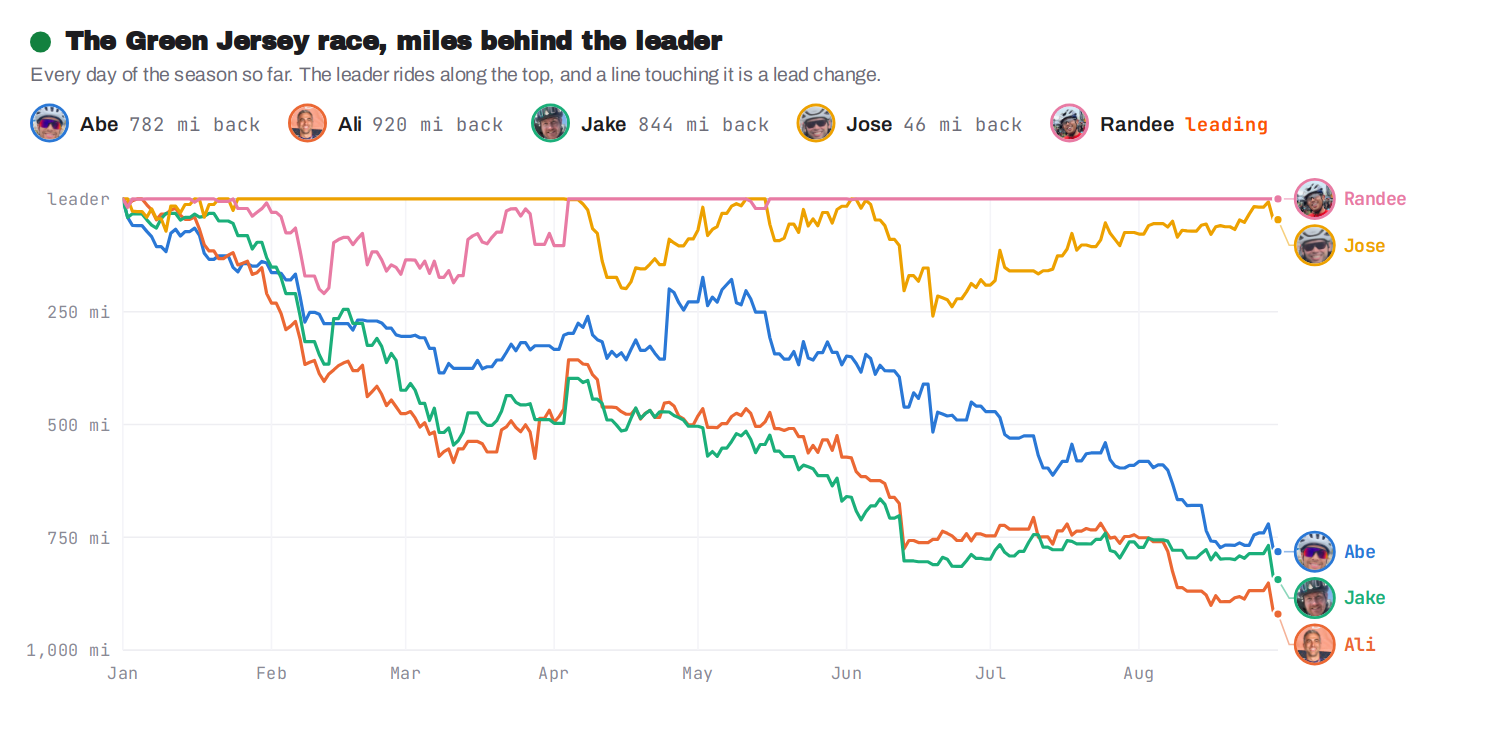
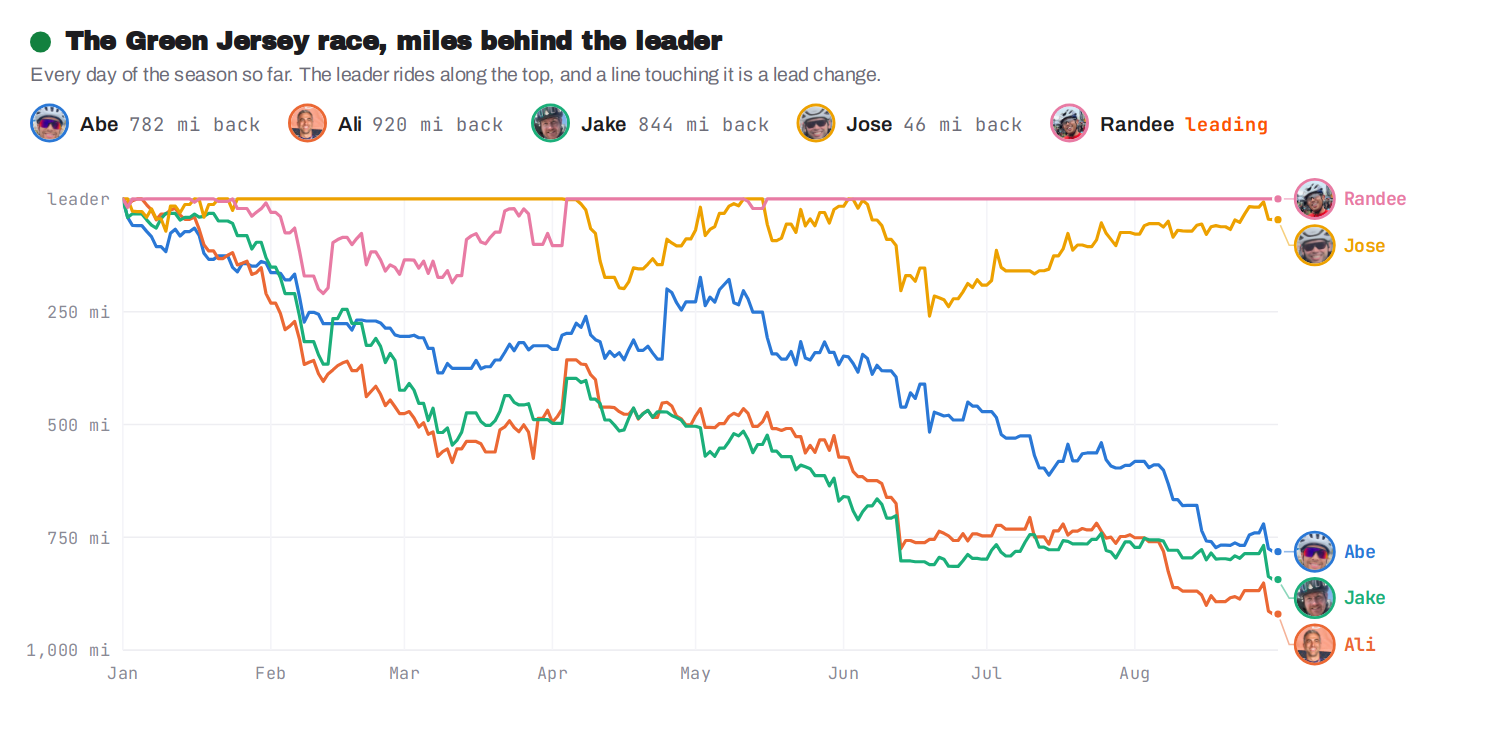
Race charts for 2026-08-31

diff --git a/data/history.js b/data/history.js
@@ -1,1 +1,1 @@
-window.HISTORY={"year":"2026","updated":"2026-08-30","riders":["Abe","Ali","Jake","Jose","Randee"],"days":["2026-01-01","2026-01-02","2026-01-03","2026-01-04","2026-01-05","2026-01-06","2026-01-07","2026-01-08","2026-01-09","2026-01-10","2026-01-11","2026-01-12","2026-01-13","2026-01-14","2026-01-15","2026-01-16","2026-01-17","2026-01-18","2026-01-19","2026-01-20","2026-01-21","2026-01-22","2026-01-23","2026-01-24","2026-01-25","2026-01-26","2026-01-27","2026-01-28","2026-01-29","2026-01-30","2026-01-31","2026-02-01","2026-02-02","2026-02-03","2026-02-04","2026-02-05","2026-02-06","2026-02-07","2026-02-08","2026-02-09","2026-02-10","2026-02-11","2026-02-12","2026-02-13","2026-02-14","2026-02-15","2026-02-16","2026-02-17","2026-02-18","2026-02-19","2026-02-20","2026-02-21","2026-02-22","2026-02-23","2026-02-24","2026-02-25","2026-02-26","2026-02-27","2026-02-28","2026-03-01","2026-03-02","2026-03-03","2026-03-04","2026-03-05","2026-03-06","2026-03-07","2026-03-08","2026-03-09","2026-03-10","2026-03-11","2026-03-12","2026-03-13","2026-03-14","2026-03-15","2026-03-16","2026-03-17","2026-03-18","2026-03-19","2026-03-20","2026-03-21","2026-03-22","2026-03-23","2026-03-24","2026-03-25","2026-03-26","2026-03-27","2026-03-28","2026-03-29","2026-03-30","2026-03-31","2026-04-01","2026-04-02","2026-04-03","2026-04-04","2026-04-05","2026-04-06","2026-04-07","2026-04-08","2026-04-09","2026-04-10","2026-04-11","2026-04-12","2026-04-13","2026-04-14","2026-04-15","2026-04-16","2026-04-17","2026-04-18","2026-04-19","2026-04-20","2026-04-21","2026-04-22","2026-04-23","2026-04-24","2026-04-25","2026-04-26","2026-04-27","2026-04-28","2026-04-29","2026-04-30","2026-05-01","2026-05-02","2026-05-03","2026-05-04","2026-05-05","2026-05-06","2026-05-07","2026-05-08","2026-05-09","2026-05-10","2026-05-11","2026-05-12","2026-05-13","2026-05-14","2026-05-15","2026-05-16","2026-05-17","2026-05-18","2026-05-19","2026-05-20","2026-05-21","2026-05-22","2026-05-23","2026-05-24","2026-05-25","2026-05-26","2026-05-27","2026-05-28","2026-05-29","2026-05-30","2026-05-31","2026-06-01","2026-06-02","2026-06-03","2026-06-04","2026-06-05","2026-06-06","2026-06-07","2026-06-08","2026-06-09","2026-06-10","2026-06-11","2026-06-12","2026-06-13","2026-06-14","2026-06-15","2026-06-16","2026-06-17","2026-06-18","2026-06-19","2026-06-20","2026-06-21","2026-06-22","2026-06-23","2026-06-24","2026-06-25","2026-06-26","2026-06-27","2026-06-28","2026-06-29","2026-06-30","2026-07-01","2026-07-02","2026-07-03","2026-07-04","2026-07-05","2026-07-06","2026-07-07","2026-07-08","2026-07-09","2026-07-10","2026-07-11","2026-07-12","2026-07-13","2026-07-14","2026-07-15","2026-07-16","2026-07-17","2026-07-18","2026-07-19","2026-07-20","2026-07-21","2026-07-22","2026-07-23","2026-07-24","2026-07-25","2026-07-26","2026-07-27","2026-07-28","2026-07-29","2026-07-30","2026-07-31","2026-08-01","2026-08-02","2026-08-03","2026-08-04","2026-08-05","2026-08-06","2026-08-07","2026-08-08","2026-08-09","2026-08-10","2026-08-11","2026-08-12","2026-08-13","2026-08-14","2026-08-15","2026-08-16","2026-08-17","2026-08-18","2026-08-19","2026-08-20","2026-08-21","2026-08-22","2026-08-23","2026-08-24","2026-08-25","2026-08-26","2026-08-27","2026-08-28","2026-08-29","2026-08-30"],"miles":{"Abe":[0.0,0.0,10.0,10.0,10.0,10.0,10.0,10.0,10.0,26.5,66.8,75.9,75.9,95.2,95.2,110.1,140.7,140.7,140.7,140.7,165.4,165.4,165.4,165.4,182.7,200.8,200.8,225.2,225.2,235.4,299.2,299.2,299.2,320.7,341.9,341.9,354.4,354.4,354.4,376.2,376.2,400.9,400.9,400.9,400.9,400.9,400.9,400.9,417.8,440.2,440.2,507.5,507.5,507.5,521.0,545.3,545.3,545.3,608.5,608.5,608.5,625.6,649.3,649.3,664.0,664.0,664.0,664.0,684.4,712.1,712.1,712.1,712.1,712.1,729.6,729.6,761.0,761.0,775.8,775.8,792.5,810.9,810.9,845.3,845.3,845.3,926.6,926.6,926.6,926.6,945.4,945.4,977.1,983.1,983.1,1005.5,1005.5,1043.6,1043.6,1043.6,1099.9,1099.9,1115.4,1115.4,1146.7,1146.7,1169.7,1190.8,1190.8,1190.8,1204.8,1204.8,1204.8,1204.8,1406.2,1406.2,1406.2,1406.2,1438.3,1438.3,1438.3,1495.7,1495.7,1514.6,1514.6,1541.9,1553.7,1569.0,1569.0,1569.0,1600.4,1600.4,1600.4,1600.4,1600.4,1600.4,1600.4,1600.4,1600.4,1600.4,1617.4,1617.4,1683.5,1683.5,1683.5,1715.1,1715.1,1738.9,1738.9,1738.9,1762.2,1781.7,1781.7,1797.4,1797.4,1836.8,1836.8,1836.8,1856.8,1856.8,1887.0,1887.0,1887.0,1920.7,1920.7,1952.1,1952.1,1983.7,1983.7,1983.7,2027.9,2027.9,2027.9,2045.0,2045.0,2045.0,2045.0,2100.9,2100.9,2100.9,2100.9,2100.9,2100.9,2100.9,2100.9,2100.9,2100.9,2100.9,2105.7,2105.7,2105.7,2105.7,2105.7,2105.7,2105.7,2120.8,2136.6,2136.6,2198.9,2198.9,2198.9,2214.5,2246.7,2246.7,2246.7,2286.8,2286.8,2286.8,2296.0,2296.0,2302.1,2302.1,2372.6,2372.6,2372.6,2372.6,2408.8,2408.8,2417.8,2433.1,2433.1,2433.1,2436.7,2467.1,2467.1,2467.1,2467.1,2467.1,2467.1,2467.1,2502.7,2502.7,2521.2,2571.3,2571.3,2571.3,2594.0,2629.1,2629.1,2649.5,2696.9,2696.9],"Ali":[0.0,28.3,64.7,69.1,69.1,69.1,69.1,69.1,81.9,109.7,118.3,122.3,122.3,122.3,122.3,134.8,154.5,159.4,159.4,159.4,159.4,159.4,167.0,197.9,197.9,201.8,206.7,206.7,210.6,221.4,231.6,231.6,231.6,231.6,231.6,239.2,249.6,260.4,260.4,265.3,269.2,269.2,272.9,289.7,298.4,307.9,313.6,317.8,328.2,328.2,339.8,339.8,351.2,362.8,362.8,373.4,386.1,386.1,437.2,437.2,442.1,442.1,451.6,461.1,473.7,478.4,478.4,489.1,495.0,503.2,533.4,533.4,549.9,549.9,549.9,563.6,571.8,571.8,571.8,621.3,627.6,640.9,640.9,647.9,662.9,662.9,677.2,766.3,766.3,784.0,784.0,796.3,813.3,924.5,924.5,924.5,924.5,936.8,955.4,955.4,955.4,991.4,991.4,1001.9,1016.2,1026.3,1026.3,1038.5,1038.5,1051.4,1062.6,1062.6,1075.1,1107.0,1154.9,1154.9,1154.9,1165.2,1165.2,1165.2,1185.4,1204.6,1225.9,1225.9,1236.2,1245.3,1245.3,1265.2,1323.8,1323.8,1339.1,1347.0,1347.0,1347.0,1357.0,1434.6,1434.6,1434.6,1442.6,1446.8,1446.8,1458.3,1473.2,1473.2,1494.0,1494.0,1521.7,1521.7,1521.7,1554.5,1557.6,1557.6,1557.6,1557.6,1566.1,1566.1,1566.1,1601.1,1601.1,1606.5,1606.5,1606.5,1606.5,1606.5,1624.9,1624.9,1632.6,1632.6,1632.6,1746.2,1746.2,1767.8,1767.8,1777.7,1777.7,1777.7,1793.2,1793.2,1817.6,1817.6,1825.4,1825.4,1825.4,1861.6,1899.1,1899.1,1899.1,1899.1,1899.1,1899.1,1925.0,1925.0,1952.8,1952.8,1952.8,1982.1,1982.1,1997.5,1997.5,2043.1,2043.1,2048.8,2076.1,2076.1,2091.2,2091.2,2113.4,2129.0,2129.0,2144.4,2144.4,2148.3,2203.6,2203.6,2203.6,2208.3,2238.2,2238.2,2238.2,2238.2,2238.2,2238.2,2247.4,2277.3,2277.3,2277.3,2324.4,2324.4,2347.4,2347.4,2377.6,2377.6,2405.2,2452.3,2452.3,2471.0,2471.0,2501.6,2501.6,2518.1,2558.4,2558.4],"Jake":[0.0,0.0,35.6,35.6,35.6,35.6,35.6,51.1,72.1,110.9,110.9,110.9,110.9,126.4,126.4,141.4,181.0,222.5,242.7,242.7,242.7,242.7,242.7,262.9,262.9,262.9,262.9,262.9,278.0,278.0,311.3,311.3,311.3,311.3,311.3,311.3,311.3,311.3,311.3,311.3,311.3,311.3,311.3,311.3,412.2,412.2,432.6,432.6,432.6,432.6,432.6,453.3,453.3,468.9,468.9,468.9,489.0,489.0,489.0,489.0,504.0,504.0,504.0,504.0,504.0,531.5,531.5,531.5,541.9,541.9,552.2,570.4,612.9,612.9,612.9,612.9,631.1,631.1,641.4,662.4,696.6,696.6,696.6,706.9,706.9,725.9,763.4,763.4,763.4,763.4,781.7,781.7,781.7,883.4,883.4,883.4,883.4,901.5,901.5,911.6,963.3,963.3,963.3,963.3,973.4,991.5,1017.0,1040.0,1040.0,1050.2,1062.6,1062.6,1087.7,1087.7,1133.5,1133.5,1151.6,1162.3,1162.3,1162.3,1162.3,1162.3,1162.3,1172.6,1172.6,1190.7,1190.7,1209.6,1278.7,1278.7,1289.0,1289.0,1289.0,1307.1,1307.1,1384.6,1384.6,1384.6,1384.6,1384.6,1384.6,1384.6,1409.7,1442.7,1442.7,1442.7,1442.7,1442.7,1442.7,1460.1,1460.1,1470.3,1470.3,1470.3,1470.3,1488.4,1510.1,1545.1,1560.6,1560.6,1560.6,1560.6,1579.6,1579.6,1579.6,1579.6,1589.9,1589.9,1589.9,1690.2,1690.2,1710.3,1710.3,1710.3,1720.5,1720.5,1732.9,1763.2,1763.2,1763.2,1773.4,1773.4,1793.5,1818.9,1839.4,1839.4,1839.4,1849.6,1849.6,1869.9,1887.0,1930.3,1930.3,1930.3,1940.5,1940.5,1940.5,1960.6,1983.8,2014.8,2014.8,2014.8,2045.0,2055.3,2055.3,2086.0,2086.0,2096.3,2096.3,2114.3,2132.1,2132.1,2182.2,2182.2,2202.3,2212.5,2242.3,2242.3,2260.3,2285.4,2320.6,2320.6,2320.6,2350.5,2350.5,2360.6,2425.1,2425.1,2442.1,2442.1,2472.5,2472.5,2489.7,2542.6,2542.6,2552.9,2552.9,2583.6,2583.6,2601.6,2635.2,2635.2],"Jose":[0.0,41.2,41.2,41.2,41.2,41.2,71.7,71.7,71.7,71.7,127.2,127.2,127.2,155.4,155.4,175.1,220.5,220.5,262.5,262.5,291.7,291.7,291.7,291.7,344.5,344.5,344.5,374.0,374.0,374.0,441.5,462.6,462.6,485.6,521.2,521.2,521.2,571.0,627.5,627.5,627.5,656.7,677.5,677.5,677.5,677.5,677.5,677.5,708.6,708.6,708.6,778.1,778.1,778.1,795.7,831.7,831.7,846.7,913.2,913.2,913.2,927.6,957.1,957.1,995.2,995.2,1049.3,1049.3,1049.3,1087.5,1087.5,1087.5,1087.5,1087.5,1087.5,1106.2,1132.9,1132.9,1132.9,1132.9,1132.9,1132.9,1147.5,1163.7,1163.7,1179.9,1252.3,1252.3,1252.3,1252.3,1279.2,1279.2,1279.2,1279.2,1279.2,1279.2,1279.2,1279.2,1279.2,1279.2,1279.2,1279.2,1279.2,1290.6,1290.6,1304.7,1319.6,1350.8,1371.6,1371.6,1387.2,1414.0,1414.0,1414.0,1516.3,1516.3,1532.4,1548.6,1577.7,1577.7,1597.5,1651.2,1651.2,1664.5,1681.9,1711.3,1711.3,1731.3,1788.5,1788.5,1803.7,1822.4,1851.4,1851.4,1851.4,1851.4,1851.4,1851.4,1868.7,1899.5,1899.5,1910.9,1976.3,1976.3,1996.2,1996.2,2025.5,2025.5,2025.5,2055.6,2113.4,2113.4,2131.7,2161.1,2161.1,2178.6,2178.6,2178.6,2178.6,2178.6,2178.6,2178.6,2178.6,2178.6,2211.7,2211.7,2211.7,2240.9,2240.9,2240.9,2285.5,2285.5,2285.5,2285.5,2313.5,2313.5,2328.9,2363.7,2363.7,2381.1,2381.1,2381.1,2391.4,2471.2,2471.2,2471.2,2471.2,2471.2,2471.2,2471.2,2471.2,2508.3,2542.9,2542.9,2562.5,2591.6,2591.6,2607.1,2665.9,2665.9,2677.3,2677.3,2704.1,2704.1,2719.2,2774.2,2789.1,2789.1,2789.1,2818.1,2818.1,2818.1,2876.7,2876.7,2895.3,2913.3,2943.4,2943.4,2956.6,3014.6,3014.6,3029.9,3045.7,3074.9,3074.9,3087.9,3146.5,3146.5,3165.0,3181.0,3208.5,3208.5,3221.6,3286.9,3286.9,3305.4,3322.2,3351.5,3351.5,3362.7,3426.8,3432.5],"Randee":[0.0,22.5,68.5,68.5,68.5,82.1,93.7,115.7,115.7,143.2,143.2,143.2,158.1,167.7,167.7,167.7,221.6,261.1,274.8,274.8,286.2,286.2,286.2,317.2,323.3,323.3,323.3,335.7,344.4,352.3,432.7,432.7,432.7,446.1,446.1,446.1,456.6,456.6,456.6,456.6,456.6,456.6,468.1,480.2,580.8,587.4,592.2,592.2,607.1,620.6,632.0,632.0,660.7,660.7,660.7,671.8,685.7,695.1,746.2,778.0,778.0,791.7,803.7,819.3,829.9,857.2,875.6,875.6,890.5,901.6,917.3,917.3,997.5,1005.6,1010.5,1010.5,1033.1,1047.7,1059.1,1059.1,1106.1,1111.0,1125.9,1125.9,1141.7,1146.7,1151.5,1151.5,1151.5,1175.6,1175.6,1175.6,1175.6,1281.1,1281.1,1281.1,1290.4,1304.0,1345.0,1355.7,1416.7,1453.2,1453.2,1464.7,1487.9,1503.5,1503.5,1503.5,1526.5,1526.5,1531.5,1546.5,1559.6,1559.6,1605.7,1613.7,1636.4,1652.7,1666.2,1666.2,1666.2,1669.5,1732.4,1732.4,1743.3,1743.3,1743.3,1747.3,1799.0,1803.9,1803.9,1816.6,1830.2,1830.2,1830.2,1907.9,1943.9,1943.9,1955.7,1955.7,1955.7,1985.1,1999.8,2036.4,2040.6,2055.8,2055.8,2055.8,2079.0,2079.0,2129.8,2129.8,2129.8,2162.3,2181.6,2181.6,2190.6,2225.5,2225.5,2237.7,2268.2,2268.2,2281.8,2382.0,2382.0,2382.0,2394.2,2394.2,2394.2,2500.7,2500.7,2504.5,2509.0,2524.4,2534.9,2534.9,2534.9,2551.3,2560.1,2560.1,2572.1,2572.1,2572.1,2585.3,2622.8,2630.9,2630.9,2630.9,2630.9,2630.9,2630.9,2674.5,2702.2,2702.2,2718.0,2718.0,2718.0,2718.0,2742.5,2779.4,2779.4,2779.4,2809.9,2809.9,2809.9,2827.3,2865.2,2878.8,2892.5,2892.5,2892.5,2892.5,2954.6,2954.6,2954.6,2968.3,2998.1,2998.1,3018.9,3064.2,3099.4,3099.4,3116.5,3146.3,3146.3,3146.3,3202.3,3225.1,3226.7,3240.3,3270.1,3270.1,3289.2,3333.8,3339.1,3339.1,3339.1,3369.6,3369.6,3369.6,3472.0,3478.7]},"feet":{"Abe":[0,0,295,295,295,295,295,295,295,958,2828,3054,3054,3917,3917,4386,5164,5164,5164,5164,6309,6309,6309,6309,6837,7339,7339,8878,8878,9144,11522,11522,11522,11696,13740,13740,15115,15115,15115,16217,16217,16909,16909,16909,16909,16909,16909,16909,17441,17625,17625,21732,21732,21732,22205,23704,23704,23704,27011,27011,27011,27651,29173,29173,29557,29557,29557,29557,30915,32244,32244,32244,32244,32244,33301,33301,34961,34961,35554,35554,36420,37250,37250,39140,39140,39140,43484,43484,43484,43484,44084,44084,45347,46105,46105,46285,46285,48182,48182,48182,50160,50160,50754,50754,52388,52388,53405,54330,54330,54330,54743,54743,54743,54743,62190,62190,62190,62190,63775,63775,63775,67292,67292,67722,67722,68339,69051,69651,69651,69651,69910,69910,69910,69910,69910,69910,69910,69910,69910,69910,70983,70983,78857,78857,78857,80780,80780,81711,81711,81711,82899,83499,83499,83818,83818,84680,84680,84680,85448,85448,86970,86970,86970,89018,89018,90330,90330,91888,91888,91888,94772,94772,94772,94913,94913,94913,94913,99392,99392,99392,99392,99392,99392,99392,99392,99392,99392,99392,99740,99740,99740,99740,99740,99740,99740,100304,101203,101203,104556,104556,104556,105406,106974,106974,106974,108670,108670,108670,109152,109152,109343,109343,113749,113749,113749,113749,115376,115376,115655,116154,116154,116154,116409,117935,117935,117935,117935,117935,117935,117935,119536,119536,120054,122338,122338,122338,123644,125235,125235,125727,129303,129303],"Ali":[0,2966,4921,6047,6047,6047,6047,6047,7536,10128,10479,11575,11575,11575,11575,13045,14272,15285,15285,15285,15285,15285,17083,19337,19337,20433,21257,21257,22352,23638,24091,24091,24091,24091,24091,24436,25738,27080,27080,28097,29193,29193,30289,31175,32310,32756,33917,35013,35909,35909,36975,36975,38683,39765,39765,40208,40924,40924,41721,41721,42741,42741,43515,44286,45737,46239,46239,47531,47885,48250,51179,51179,53424,53424,53424,53581,54057,54057,54057,58926,59280,59992,59992,60500,60956,60956,61550,63952,63952,64792,64792,65124,65547,69343,69343,69343,69343,70245,70763,70763,70763,72922,72922,73398,73962,74225,74225,75967,75967,76272,77342,77342,78450,79281,80645,80645,80645,81534,81534,81534,82332,83096,85777,85777,86685,87095,87095,87886,93283,93283,93641,94336,94336,94336,94947,100465,100465,100465,101174,101439,101439,101767,104385,104385,107000,107000,108470,108470,108470,109635,109730,109730,109730,109730,110130,110130,110130,111557,111557,112073,112073,112073,112073,112073,114815,114815,115567,115567,115567,118329,118329,121036,121036,122417,122417,122417,122745,122745,124399,124399,125186,125186,125186,128185,131698,131698,131698,131698,131698,131698,133857,133857,137919,137919,137919,139376,139376,139717,139717,144071,144071,144481,145908,145908,146357,146357,149094,149408,149408,149730,149730,149986,154504,154504,154504,154510,155957,155957,155957,155957,155957,155957,156365,157835,157835,157835,159958,159958,160903,160903,162336,162336,165033,167123,167123,167523,167523,168967,168967,169324,171742,171742],"Jake":[0,0,1926,1926,1926,1926,1926,2343,3058,5961,5961,5961,5961,6407,6407,6804,8150,10755,11440,11440,11440,11440,11440,12051,12051,12051,12051,12051,12431,12431,13711,13711,13711,13711,13711,13711,13711,13711,13711,13711,13711,13711,13711,13711,15820,15820,16493,16493,16493,16493,16493,17175,17175,17618,17618,17618,18225,18225,18225,18225,18625,18625,18625,18625,18625,20072,20072,20072,20705,20705,21299,21969,22969,22969,22969,22969,23615,23615,24213,25338,28271,28271,28271,28875,28875,29514,31184,31184,31184,31184,31850,31850,31850,35361,35361,35361,35361,36030,36030,36663,38402,38402,38402,38402,39016,39685,40728,42267,42267,42887,43668,43668,44652,44652,46444,46444,47129,47766,47766,47766,47766,47766,47766,48392,48392,49137,49137,49852,53825,53825,54432,54432,54432,55148,55148,60646,60646,60646,60646,60646,60646,60646,61686,63169,63169,63169,63169,63169,63169,63799,63799,64465,64465,64465,64465,65164,65984,67359,67516,67516,67516,67516,68219,68219,68219,68219,68848,68848,68848,71033,71033,71798,71798,71798,72415,72415,72930,74446,74446,74446,75075,75075,75817,76850,77982,77982,77982,78589,78589,79386,80085,82448,82448,82448,83058,83058,83058,83973,85486,86526,86526,86526,88028,88645,88645,90030,90030,90663,90663,91342,92096,92096,93520,93520,94272,94921,96385,96385,97047,98117,99488,99488,99488,100942,100942,101552,104741,104741,105433,105433,106900,106900,107539,110102,110102,110689,110689,112096,112096,112730,114964,114964],"Jose":[0,1854,1854,1854,1854,1854,3576,3576,3576,3576,7238,7238,7238,8812,8812,9587,12100,12100,14511,14511,16053,16053,16053,16053,19652,19652,19652,21184,21184,21184,23678,24419,24419,25696,27388,27388,27388,29721,32493,32493,32493,34108,34590,34590,34590,34590,34590,34590,36424,36424,36424,41102,41102,41102,41837,43615,43615,43911,47369,47369,47369,48018,49649,49649,51503,51503,54003,54003,54003,55709,55709,55709,55709,55709,55709,56109,57467,57467,57467,57467,57467,57467,57890,58675,58675,59203,63241,63241,63241,63241,64662,64662,64662,64662,64662,64662,64662,64662,64662,64662,64662,64662,64662,64980,64980,65420,66043,67395,68346,68346,68832,70249,70249,70249,74039,74039,74557,75364,76860,76860,77674,81076,81076,81470,82300,83796,83796,84580,89885,89885,90207,91184,92690,92690,92690,92690,92690,92690,93596,95056,95056,95377,103281,103281,103743,103743,105240,105240,105240,106870,109934,109934,110919,112392,112392,113094,113094,113094,113094,113094,113094,113094,113094,113094,114265,114265,114265,115745,115745,115745,118553,118553,118553,118553,119964,119964,120305,122136,122136,122822,122822,122822,123110,127815,127815,127815,127815,127815,127815,127815,127815,129800,130906,130906,131670,133110,133110,133448,136637,136637,136939,136939,138327,138327,138786,141808,142172,142172,142172,143609,143609,143609,146670,146670,147064,148192,149646,149646,149993,154032,154032,154373,155394,156847,156847,157195,160561,160561,161020,162149,163681,163681,164068,166962,166962,167375,168501,169915,169915,170203,174590,174738],"Randee":[0,853,3097,3097,3097,3504,3776,4685,4685,7293,7293,7293,7753,8061,8061,8061,11414,13934,14344,14344,14626,14626,14626,16949,16965,16965,16965,17303,17503,18638,20620,20620,20620,21024,21024,21024,21273,21273,21273,21273,21273,21273,21627,22198,24337,24823,25240,25240,25735,26138,26558,26558,28058,28058,28058,28465,28793,29088,29934,31194,31194,31604,32041,32480,33645,35095,35738,35738,36181,36601,37051,37051,39042,39396,39623,39623,40492,40823,41306,41306,44636,45331,45774,45774,46188,46801,47146,47146,47146,50003,50003,50003,50003,53720,53720,53720,55814,56214,57415,57917,60128,63446,63446,64161,64942,65365,65365,65365,68442,68442,68616,68984,69587,69587,71300,71995,72543,73757,74066,74066,74066,74184,77914,77914,78734,78734,78734,79151,85785,86224,86224,87419,87839,87839,87839,93491,94899,94899,96008,96008,96008,100713,103573,105253,105519,106165,106165,106165,106966,106966,109144,109144,109144,110837,111457,111457,111741,113175,113175,115927,117456,117456,117893,120127,120127,120127,121279,121279,121279,124074,124074,125239,125996,128044,128273,128273,128273,128844,130740,130740,131876,131876,131876,132171,135753,138860,138860,138860,138860,138860,138860,141354,145402,145402,145845,145845,145845,145845,147023,151183,151183,151183,152692,152692,152692,154445,155927,156361,156787,156787,156787,156787,162000,162000,162000,162440,163952,163952,164763,166495,167909,167909,168667,170176,170176,170176,172919,174766,174852,175262,176758,176758,177181,179271,179543,179543,179543,181046,181046,181046,183251,183628]}};
+window.HISTORY={"year":"2026","updated":"2026-08-31","riders":["Abe","Ali","Jake","Jose","Randee"],"days":["2026-01-01","2026-01-02","2026-01-03","2026-01-04","2026-01-05","2026-01-06","2026-01-07","2026-01-08","2026-01-09","2026-01-10","2026-01-11","2026-01-12","2026-01-13","2026-01-14","2026-01-15","2026-01-16","2026-01-17","2026-01-18","2026-01-19","2026-01-20","2026-01-21","2026-01-22","2026-01-23","2026-01-24","2026-01-25","2026-01-26","2026-01-27","2026-01-28","2026-01-29","2026-01-30","2026-01-31","2026-02-01","2026-02-02","2026-02-03","2026-02-04","2026-02-05","2026-02-06","2026-02-07","2026-02-08","2026-02-09","2026-02-10","2026-02-11","2026-02-12","2026-02-13","2026-02-14","2026-02-15","2026-02-16","2026-02-17","2026-02-18","2026-02-19","2026-02-20","2026-02-21","2026-02-22","2026-02-23","2026-02-24","2026-02-25","2026-02-26","2026-02-27","2026-02-28","2026-03-01","2026-03-02","2026-03-03","2026-03-04","2026-03-05","2026-03-06","2026-03-07","2026-03-08","2026-03-09","2026-03-10","2026-03-11","2026-03-12","2026-03-13","2026-03-14","2026-03-15","2026-03-16","2026-03-17","2026-03-18","2026-03-19","2026-03-20","2026-03-21","2026-03-22","2026-03-23","2026-03-24","2026-03-25","2026-03-26","2026-03-27","2026-03-28","2026-03-29","2026-03-30","2026-03-31","2026-04-01","2026-04-02","2026-04-03","2026-04-04","2026-04-05","2026-04-06","2026-04-07","2026-04-08","2026-04-09","2026-04-10","2026-04-11","2026-04-12","2026-04-13","2026-04-14","2026-04-15","2026-04-16","2026-04-17","2026-04-18","2026-04-19","2026-04-20","2026-04-21","2026-04-22","2026-04-23","2026-04-24","2026-04-25","2026-04-26","2026-04-27","2026-04-28","2026-04-29","2026-04-30","2026-05-01","2026-05-02","2026-05-03","2026-05-04","2026-05-05","2026-05-06","2026-05-07","2026-05-08","2026-05-09","2026-05-10","2026-05-11","2026-05-12","2026-05-13","2026-05-14","2026-05-15","2026-05-16","2026-05-17","2026-05-18","2026-05-19","2026-05-20","2026-05-21","2026-05-22","2026-05-23","2026-05-24","2026-05-25","2026-05-26","2026-05-27","2026-05-28","2026-05-29","2026-05-30","2026-05-31","2026-06-01","2026-06-02","2026-06-03","2026-06-04","2026-06-05","2026-06-06","2026-06-07","2026-06-08","2026-06-09","2026-06-10","2026-06-11","2026-06-12","2026-06-13","2026-06-14","2026-06-15","2026-06-16","2026-06-17","2026-06-18","2026-06-19","2026-06-20","2026-06-21","2026-06-22","2026-06-23","2026-06-24","2026-06-25","2026-06-26","2026-06-27","2026-06-28","2026-06-29","2026-06-30","2026-07-01","2026-07-02","2026-07-03","2026-07-04","2026-07-05","2026-07-06","2026-07-07","2026-07-08","2026-07-09","2026-07-10","2026-07-11","2026-07-12","2026-07-13","2026-07-14","2026-07-15","2026-07-16","2026-07-17","2026-07-18","2026-07-19","2026-07-20","2026-07-21","2026-07-22","2026-07-23","2026-07-24","2026-07-25","2026-07-26","2026-07-27","2026-07-28","2026-07-29","2026-07-30","2026-07-31","2026-08-01","2026-08-02","2026-08-03","2026-08-04","2026-08-05","2026-08-06","2026-08-07","2026-08-08","2026-08-09","2026-08-10","2026-08-11","2026-08-12","2026-08-13","2026-08-14","2026-08-15","2026-08-16","2026-08-17","2026-08-18","2026-08-19","2026-08-20","2026-08-21","2026-08-22","2026-08-23","2026-08-24","2026-08-25","2026-08-26","2026-08-27","2026-08-28","2026-08-29","2026-08-30","2026-08-31"],"miles":{"Abe":[0.0,0.0,10.0,10.0,10.0,10.0,10.0,10.0,10.0,26.5,66.8,75.9,75.9,95.2,95.2,110.1,140.7,140.7,140.7,140.7,165.4,165.4,165.4,165.4,182.7,200.8,200.8,225.2,225.2,235.4,299.2,299.2,299.2,320.7,341.9,341.9,354.4,354.4,354.4,376.2,376.2,400.9,400.9,400.9,400.9,400.9,400.9,400.9,417.8,440.2,440.2,507.5,507.5,507.5,521.0,545.3,545.3,545.3,608.5,608.5,608.5,625.6,649.3,649.3,664.0,664.0,664.0,664.0,684.4,712.1,712.1,712.1,712.1,712.1,729.6,729.6,761.0,761.0,775.8,775.8,792.5,810.9,810.9,845.3,845.3,845.3,926.6,926.6,926.6,926.6,945.4,945.4,977.1,983.1,983.1,1005.5,1005.5,1043.6,1043.6,1043.6,1099.9,1099.9,1115.4,1115.4,1146.7,1146.7,1169.7,1190.8,1190.8,1190.8,1204.8,1204.8,1204.8,1204.8,1406.2,1406.2,1406.2,1406.2,1438.3,1438.3,1438.3,1495.7,1495.7,1514.6,1514.6,1541.9,1553.7,1569.0,1569.0,1569.0,1600.4,1600.4,1600.4,1600.4,1600.4,1600.4,1600.4,1600.4,1600.4,1600.4,1617.4,1617.4,1683.5,1683.5,1683.5,1715.1,1715.1,1738.9,1738.9,1738.9,1762.2,1781.7,1781.7,1797.4,1797.4,1836.8,1836.8,1836.8,1856.8,1856.8,1887.0,1887.0,1887.0,1920.7,1920.7,1952.1,1952.1,1983.7,1983.7,1983.7,2027.9,2027.9,2027.9,2045.0,2045.0,2045.0,2045.0,2100.9,2100.9,2100.9,2100.9,2100.9,2100.9,2100.9,2100.9,2100.9,2100.9,2100.9,2105.7,2105.7,2105.7,2105.7,2105.7,2105.7,2105.7,2120.8,2136.6,2136.6,2198.9,2198.9,2198.9,2214.5,2246.7,2246.7,2246.7,2286.8,2286.8,2286.8,2296.0,2296.0,2302.1,2302.1,2372.6,2372.6,2372.6,2372.6,2408.8,2408.8,2417.8,2433.1,2433.1,2433.1,2436.7,2467.1,2467.1,2467.1,2467.1,2467.1,2467.1,2467.1,2502.7,2502.7,2521.2,2571.3,2571.3,2571.3,2594.0,2629.1,2629.1,2649.5,2696.9,2696.9,2696.9],"Ali":[0.0,28.3,64.7,69.1,69.1,69.1,69.1,69.1,81.9,109.7,118.3,122.3,122.3,122.3,122.3,134.8,154.5,159.4,159.4,159.4,159.4,159.4,167.0,197.9,197.9,201.8,206.7,206.7,210.6,221.4,231.6,231.6,231.6,231.6,231.6,239.2,249.6,260.4,260.4,265.3,269.2,269.2,272.9,289.7,298.4,307.9,313.6,317.8,328.2,328.2,339.8,339.8,351.2,362.8,362.8,373.4,386.1,386.1,437.2,437.2,442.1,442.1,451.6,461.1,473.7,478.4,478.4,489.1,495.0,503.2,533.4,533.4,549.9,549.9,549.9,563.6,571.8,571.8,571.8,621.3,627.6,640.9,640.9,647.9,662.9,662.9,677.2,766.3,766.3,784.0,784.0,796.3,813.3,924.5,924.5,924.5,924.5,936.8,955.4,955.4,955.4,991.4,991.4,1001.9,1016.2,1026.3,1026.3,1038.5,1038.5,1051.4,1062.6,1062.6,1075.1,1107.0,1154.9,1154.9,1154.9,1165.2,1165.2,1165.2,1185.4,1204.6,1225.9,1225.9,1236.2,1245.3,1245.3,1265.2,1323.8,1323.8,1339.1,1347.0,1347.0,1347.0,1357.0,1434.6,1434.6,1434.6,1442.6,1446.8,1446.8,1458.3,1473.2,1473.2,1494.0,1494.0,1521.7,1521.7,1521.7,1554.5,1557.6,1557.6,1557.6,1557.6,1566.1,1566.1,1566.1,1601.1,1601.1,1606.5,1606.5,1606.5,1606.5,1606.5,1624.9,1624.9,1632.6,1632.6,1632.6,1746.2,1746.2,1767.8,1767.8,1777.7,1777.7,1777.7,1793.2,1793.2,1817.6,1817.6,1825.4,1825.4,1825.4,1861.6,1899.1,1899.1,1899.1,1899.1,1899.1,1899.1,1925.0,1925.0,1952.8,1952.8,1952.8,1982.1,1982.1,1997.5,1997.5,2043.1,2043.1,2048.8,2076.1,2076.1,2091.2,2091.2,2113.4,2129.0,2129.0,2144.4,2144.4,2148.3,2203.6,2203.6,2203.6,2208.3,2238.2,2238.2,2238.2,2238.2,2238.2,2238.2,2247.4,2277.3,2277.3,2277.3,2324.4,2324.4,2347.4,2347.4,2377.6,2377.6,2405.2,2452.3,2452.3,2471.0,2471.0,2501.6,2501.6,2518.1,2558.4,2558.4,2558.4],"Jake":[0.0,0.0,35.6,35.6,35.6,35.6,35.6,51.1,72.1,110.9,110.9,110.9,110.9,126.4,126.4,141.4,181.0,222.5,242.7,242.7,242.7,242.7,242.7,262.9,262.9,262.9,262.9,262.9,278.0,278.0,311.3,311.3,311.3,311.3,311.3,311.3,311.3,311.3,311.3,311.3,311.3,311.3,311.3,311.3,412.2,412.2,432.6,432.6,432.6,432.6,432.6,453.3,453.3,468.9,468.9,468.9,489.0,489.0,489.0,489.0,504.0,504.0,504.0,504.0,504.0,531.5,531.5,531.5,541.9,541.9,552.2,570.4,612.9,612.9,612.9,612.9,631.1,631.1,641.4,662.4,696.6,696.6,696.6,706.9,706.9,725.9,763.4,763.4,763.4,763.4,781.7,781.7,781.7,883.4,883.4,883.4,883.4,901.5,901.5,911.6,963.3,963.3,963.3,963.3,973.4,991.5,1017.0,1040.0,1040.0,1050.2,1062.6,1062.6,1087.7,1087.7,1133.5,1133.5,1151.6,1162.3,1162.3,1162.3,1162.3,1162.3,1162.3,1172.6,1172.6,1190.7,1190.7,1209.6,1278.7,1278.7,1289.0,1289.0,1289.0,1307.1,1307.1,1384.6,1384.6,1384.6,1384.6,1384.6,1384.6,1384.6,1409.7,1442.7,1442.7,1442.7,1442.7,1442.7,1442.7,1460.1,1460.1,1470.3,1470.3,1470.3,1470.3,1488.4,1510.1,1545.1,1560.6,1560.6,1560.6,1560.6,1579.6,1579.6,1579.6,1579.6,1589.9,1589.9,1589.9,1690.2,1690.2,1710.3,1710.3,1710.3,1720.5,1720.5,1732.9,1763.2,1763.2,1763.2,1773.4,1773.4,1793.5,1818.9,1839.4,1839.4,1839.4,1849.6,1849.6,1869.9,1887.0,1930.3,1930.3,1930.3,1940.5,1940.5,1940.5,1960.6,1983.8,2014.8,2014.8,2014.8,2045.0,2055.3,2055.3,2086.0,2086.0,2096.3,2096.3,2114.3,2132.1,2132.1,2182.2,2182.2,2202.3,2212.5,2242.3,2242.3,2260.3,2285.4,2320.6,2320.6,2320.6,2350.5,2350.5,2360.6,2425.1,2425.1,2442.1,2442.1,2472.5,2472.5,2489.7,2542.6,2542.6,2552.9,2552.9,2583.6,2583.6,2601.6,2635.2,2635.2,2635.2],"Jose":[0.0,41.2,41.2,41.2,41.2,41.2,71.7,71.7,71.7,71.7,127.2,127.2,127.2,155.4,155.4,175.1,220.5,220.5,262.5,262.5,291.7,291.7,291.7,291.7,344.5,344.5,344.5,374.0,374.0,374.0,441.5,462.6,462.6,485.6,521.2,521.2,521.2,571.0,627.5,627.5,627.5,656.7,677.5,677.5,677.5,677.5,677.5,677.5,708.6,708.6,708.6,778.1,778.1,778.1,795.7,831.7,831.7,846.7,913.2,913.2,913.2,927.6,957.1,957.1,995.2,995.2,1049.3,1049.3,1049.3,1087.5,1087.5,1087.5,1087.5,1087.5,1087.5,1106.2,1132.9,1132.9,1132.9,1132.9,1132.9,1132.9,1147.5,1163.7,1163.7,1179.9,1252.3,1252.3,1252.3,1252.3,1279.2,1279.2,1279.2,1279.2,1279.2,1279.2,1279.2,1279.2,1279.2,1279.2,1279.2,1279.2,1279.2,1290.6,1290.6,1304.7,1319.6,1350.8,1371.6,1371.6,1387.2,1414.0,1414.0,1414.0,1516.3,1516.3,1532.4,1548.6,1577.7,1577.7,1597.5,1651.2,1651.2,1664.5,1681.9,1711.3,1711.3,1731.3,1788.5,1788.5,1803.7,1822.4,1851.4,1851.4,1851.4,1851.4,1851.4,1851.4,1868.7,1899.5,1899.5,1910.9,1976.3,1976.3,1996.2,1996.2,2025.5,2025.5,2025.5,2055.6,2113.4,2113.4,2131.7,2161.1,2161.1,2178.6,2178.6,2178.6,2178.6,2178.6,2178.6,2178.6,2178.6,2178.6,2211.7,2211.7,2211.7,2240.9,2240.9,2240.9,2285.5,2285.5,2285.5,2285.5,2313.5,2313.5,2328.9,2363.7,2363.7,2381.1,2381.1,2381.1,2391.4,2471.2,2471.2,2471.2,2471.2,2471.2,2471.2,2471.2,2471.2,2508.3,2542.9,2542.9,2562.5,2591.6,2591.6,2607.1,2665.9,2665.9,2677.3,2677.3,2704.1,2704.1,2719.2,2774.2,2789.1,2789.1,2789.1,2818.1,2818.1,2818.1,2876.7,2876.7,2895.3,2913.3,2943.4,2943.4,2956.6,3014.6,3014.6,3029.9,3045.7,3074.9,3074.9,3087.9,3146.5,3146.5,3165.0,3181.0,3208.5,3208.5,3221.6,3286.9,3286.9,3305.4,3322.2,3351.5,3351.5,3362.7,3426.8,3432.5,3432.5],"Randee":[0.0,22.5,68.5,68.5,68.5,82.1,93.7,115.7,115.7,143.2,143.2,143.2,158.1,167.7,167.7,167.7,221.6,261.1,274.8,274.8,286.2,286.2,286.2,317.2,323.3,323.3,323.3,335.7,344.4,352.3,432.7,432.7,432.7,446.1,446.1,446.1,456.6,456.6,456.6,456.6,456.6,456.6,468.1,480.2,580.8,587.4,592.2,592.2,607.1,620.6,632.0,632.0,660.7,660.7,660.7,671.8,685.7,695.1,746.2,778.0,778.0,791.7,803.7,819.3,829.9,857.2,875.6,875.6,890.5,901.6,917.3,917.3,997.5,1005.6,1010.5,1010.5,1033.1,1047.7,1059.1,1059.1,1106.1,1111.0,1125.9,1125.9,1141.7,1146.7,1151.5,1151.5,1151.5,1175.6,1175.6,1175.6,1175.6,1281.1,1281.1,1281.1,1290.4,1304.0,1345.0,1355.7,1416.7,1453.2,1453.2,1464.7,1487.9,1503.5,1503.5,1503.5,1526.5,1526.5,1531.5,1546.5,1559.6,1559.6,1605.7,1613.7,1636.4,1652.7,1666.2,1666.2,1666.2,1669.5,1732.4,1732.4,1743.3,1743.3,1743.3,1747.3,1799.0,1803.9,1803.9,1816.6,1830.2,1830.2,1830.2,1907.9,1943.9,1943.9,1955.7,1955.7,1955.7,1985.1,1999.8,2036.4,2040.6,2055.8,2055.8,2055.8,2079.0,2079.0,2129.8,2129.8,2129.8,2162.3,2181.6,2181.6,2190.6,2225.5,2225.5,2237.7,2268.2,2268.2,2281.8,2382.0,2382.0,2382.0,2394.2,2394.2,2394.2,2500.7,2500.7,2504.5,2509.0,2524.4,2534.9,2534.9,2534.9,2551.3,2560.1,2560.1,2572.1,2572.1,2572.1,2585.3,2622.8,2630.9,2630.9,2630.9,2630.9,2630.9,2630.9,2674.5,2702.2,2702.2,2718.0,2718.0,2718.0,2718.0,2742.5,2779.4,2779.4,2779.4,2809.9,2809.9,2809.9,2827.3,2865.2,2878.8,2892.5,2892.5,2892.5,2892.5,2954.6,2954.6,2954.6,2968.3,2998.1,2998.1,3018.9,3064.2,3099.4,3099.4,3116.5,3146.3,3146.3,3146.3,3202.3,3225.1,3226.7,3240.3,3270.1,3270.1,3289.2,3333.8,3339.1,3339.1,3339.1,3369.6,3369.6,3369.6,3472.0,3478.7,3478.7]},"feet":{"Abe":[0,0,295,295,295,295,295,295,295,958,2828,3054,3054,3917,3917,4386,5164,5164,5164,5164,6309,6309,6309,6309,6837,7339,7339,8878,8878,9144,11522,11522,11522,11696,13740,13740,15115,15115,15115,16217,16217,16909,16909,16909,16909,16909,16909,16909,17441,17625,17625,21732,21732,21732,22205,23704,23704,23704,27011,27011,27011,27651,29173,29173,29557,29557,29557,29557,30915,32244,32244,32244,32244,32244,33301,33301,34961,34961,35554,35554,36420,37250,37250,39140,39140,39140,43484,43484,43484,43484,44084,44084,45347,46105,46105,46285,46285,48182,48182,48182,50160,50160,50754,50754,52388,52388,53405,54330,54330,54330,54743,54743,54743,54743,62190,62190,62190,62190,63775,63775,63775,67292,67292,67722,67722,68339,69051,69651,69651,69651,69910,69910,69910,69910,69910,69910,69910,69910,69910,69910,70983,70983,78857,78857,78857,80780,80780,81711,81711,81711,82899,83499,83499,83818,83818,84680,84680,84680,85448,85448,86970,86970,86970,89018,89018,90330,90330,91888,91888,91888,94772,94772,94772,94913,94913,94913,94913,99392,99392,99392,99392,99392,99392,99392,99392,99392,99392,99392,99740,99740,99740,99740,99740,99740,99740,100304,101203,101203,104556,104556,104556,105406,106974,106974,106974,108670,108670,108670,109152,109152,109343,109343,113749,113749,113749,113749,115376,115376,115655,116154,116154,116154,116409,117935,117935,117935,117935,117935,117935,117935,119536,119536,120054,122338,122338,122338,123644,125235,125235,125727,129303,129303,129303],"Ali":[0,2966,4921,6047,6047,6047,6047,6047,7536,10128,10479,11575,11575,11575,11575,13045,14272,15285,15285,15285,15285,15285,17083,19337,19337,20433,21257,21257,22352,23638,24091,24091,24091,24091,24091,24436,25738,27080,27080,28097,29193,29193,30289,31175,32310,32756,33917,35013,35909,35909,36975,36975,38683,39765,39765,40208,40924,40924,41721,41721,42741,42741,43515,44286,45737,46239,46239,47531,47885,48250,51179,51179,53424,53424,53424,53581,54057,54057,54057,58926,59280,59992,59992,60500,60956,60956,61550,63952,63952,64792,64792,65124,65547,69343,69343,69343,69343,70245,70763,70763,70763,72922,72922,73398,73962,74225,74225,75967,75967,76272,77342,77342,78450,79281,80645,80645,80645,81534,81534,81534,82332,83096,85777,85777,86685,87095,87095,87886,93283,93283,93641,94336,94336,94336,94947,100465,100465,100465,101174,101439,101439,101767,104385,104385,107000,107000,108470,108470,108470,109635,109730,109730,109730,109730,110130,110130,110130,111557,111557,112073,112073,112073,112073,112073,114815,114815,115567,115567,115567,118329,118329,121036,121036,122417,122417,122417,122745,122745,124399,124399,125186,125186,125186,128185,131698,131698,131698,131698,131698,131698,133857,133857,137919,137919,137919,139376,139376,139717,139717,144071,144071,144481,145908,145908,146357,146357,149094,149408,149408,149730,149730,149986,154504,154504,154504,154510,155957,155957,155957,155957,155957,155957,156365,157835,157835,157835,159958,159958,160903,160903,162336,162336,165033,167123,167123,167523,167523,168967,168967,169324,171742,171742,171742],"Jake":[0,0,1926,1926,1926,1926,1926,2343,3058,5961,5961,5961,5961,6407,6407,6804,8150,10755,11440,11440,11440,11440,11440,12051,12051,12051,12051,12051,12431,12431,13711,13711,13711,13711,13711,13711,13711,13711,13711,13711,13711,13711,13711,13711,15820,15820,16493,16493,16493,16493,16493,17175,17175,17618,17618,17618,18225,18225,18225,18225,18625,18625,18625,18625,18625,20072,20072,20072,20705,20705,21299,21969,22969,22969,22969,22969,23615,23615,24213,25338,28271,28271,28271,28875,28875,29514,31184,31184,31184,31184,31850,31850,31850,35361,35361,35361,35361,36030,36030,36663,38402,38402,38402,38402,39016,39685,40728,42267,42267,42887,43668,43668,44652,44652,46444,46444,47129,47766,47766,47766,47766,47766,47766,48392,48392,49137,49137,49852,53825,53825,54432,54432,54432,55148,55148,60646,60646,60646,60646,60646,60646,60646,61686,63169,63169,63169,63169,63169,63169,63799,63799,64465,64465,64465,64465,65164,65984,67359,67516,67516,67516,67516,68219,68219,68219,68219,68848,68848,68848,71033,71033,71798,71798,71798,72415,72415,72930,74446,74446,74446,75075,75075,75817,76850,77982,77982,77982,78589,78589,79386,80085,82448,82448,82448,83058,83058,83058,83973,85486,86526,86526,86526,88028,88645,88645,90030,90030,90663,90663,91342,92096,92096,93520,93520,94272,94921,96385,96385,97047,98117,99488,99488,99488,100942,100942,101552,104741,104741,105433,105433,106900,106900,107539,110102,110102,110689,110689,112096,112096,112730,114964,114964,114964],"Jose":[0,1854,1854,1854,1854,1854,3576,3576,3576,3576,7238,7238,7238,8812,8812,9587,12100,12100,14511,14511,16053,16053,16053,16053,19652,19652,19652,21184,21184,21184,23678,24419,24419,25696,27388,27388,27388,29721,32493,32493,32493,34108,34590,34590,34590,34590,34590,34590,36424,36424,36424,41102,41102,41102,41837,43615,43615,43911,47369,47369,47369,48018,49649,49649,51503,51503,54003,54003,54003,55709,55709,55709,55709,55709,55709,56109,57467,57467,57467,57467,57467,57467,57890,58675,58675,59203,63241,63241,63241,63241,64662,64662,64662,64662,64662,64662,64662,64662,64662,64662,64662,64662,64662,64980,64980,65420,66043,67395,68346,68346,68832,70249,70249,70249,74039,74039,74557,75364,76860,76860,77674,81076,81076,81470,82300,83796,83796,84580,89885,89885,90207,91184,92690,92690,92690,92690,92690,92690,93596,95056,95056,95377,103281,103281,103743,103743,105240,105240,105240,106870,109934,109934,110919,112392,112392,113094,113094,113094,113094,113094,113094,113094,113094,113094,114265,114265,114265,115745,115745,115745,118553,118553,118553,118553,119964,119964,120305,122136,122136,122822,122822,122822,123110,127815,127815,127815,127815,127815,127815,127815,127815,129800,130906,130906,131670,133110,133110,133448,136637,136637,136939,136939,138327,138327,138786,141808,142172,142172,142172,143609,143609,143609,146670,146670,147064,148192,149646,149646,149993,154032,154032,154373,155394,156847,156847,157195,160561,160561,161020,162149,163681,163681,164068,166962,166962,167375,168501,169915,169915,170203,174590,174738,174738],"Randee":[0,853,3097,3097,3097,3504,3776,4685,4685,7293,7293,7293,7753,8061,8061,8061,11414,13934,14344,14344,14626,14626,14626,16949,16965,16965,16965,17303,17503,18638,20620,20620,20620,21024,21024,21024,21273,21273,21273,21273,21273,21273,21627,22198,24337,24823,25240,25240,25735,26138,26558,26558,28058,28058,28058,28465,28793,29088,29934,31194,31194,31604,32041,32480,33645,35095,35738,35738,36181,36601,37051,37051,39042,39396,39623,39623,40492,40823,41306,41306,44636,45331,45774,45774,46188,46801,47146,47146,47146,50003,50003,50003,50003,53720,53720,53720,55814,56214,57415,57917,60128,63446,63446,64161,64942,65365,65365,65365,68442,68442,68616,68984,69587,69587,71300,71995,72543,73757,74066,74066,74066,74184,77914,77914,78734,78734,78734,79151,85785,86224,86224,87419,87839,87839,87839,93491,94899,94899,96008,96008,96008,100713,103573,105253,105519,106165,106165,106165,106966,106966,109144,109144,109144,110837,111457,111457,111741,113175,113175,115927,117456,117456,117893,120127,120127,120127,121279,121279,121279,124074,124074,125239,125996,128044,128273,128273,128273,128844,130740,130740,131876,131876,131876,132171,135753,138860,138860,138860,138860,138860,138860,141354,145402,145402,145845,145845,145845,145845,147023,151183,151183,151183,152692,152692,152692,154445,155927,156361,156787,156787,156787,156787,162000,162000,162000,162440,163952,163952,164763,166495,167909,167909,168667,170176,170176,170176,172919,174766,174852,175262,176758,176758,177181,179271,179543,179543,179543,181046,181046,181046,183251,183628,183628]}};
